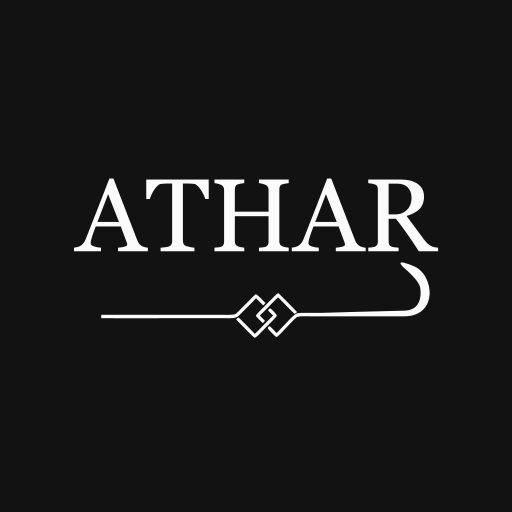
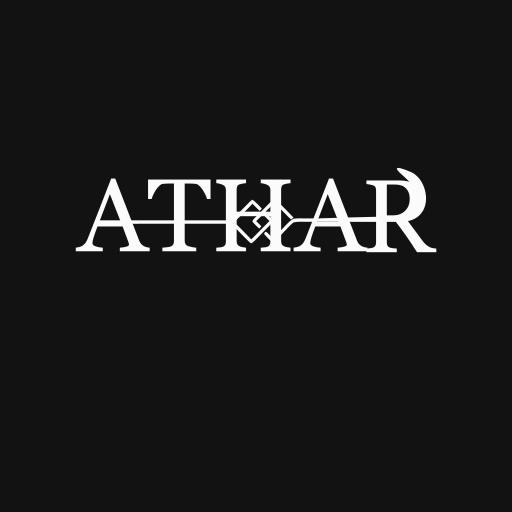
Unify ATHAR login wordmark across the entire platform (v373).
Apply tuned deco line, R alignment, and viewBox to header, transition, and PWA icons.

Changed region(s): [[0.1875, 0.3125, 0.875, 0.6562], [0.1562, 0.4375, 0.1875, 0.5]]

diff --git a/index.html b/index.html
@@ -492,13 +492,12 @@
     }
 
     .wefaq-app-logo--athar {
-      aspect-ratio: 903 / 422;
+      aspect-ratio: 903 / 555;
       max-width: 100%
     }
 
-    .wefaq-app-logo--athar-login {
-      aspect-ratio: 903 / 555;
-      max-width: 100%
+    .wefaq-app-logo--athar .athar-logo-deco path {
+      shape-rendering: geometricPrecision
     }
 
     #loginScreen #loginCard.lp-card .lp-hd--wefaq {
@@ -522,14 +521,10 @@
         margin-top: 0.35rem
       }
 
-      #loginScreen #loginCard .lp-hd--wefaq .wefaq-app-logo--athar-login {
+      #loginScreen #loginCard .lp-hd--wefaq .wefaq-app-logo--athar {
         transform: translateY(10px);
         transform-origin: center top
       }
-    }
-
-    #loginScreen #loginCard .lp-hd--wefaq .wefaq-logo-slot .athar-logo-deco path {
-      shape-rendering: geometricPrecision
     }
 
     #loginScreen #loginCard .lp-hd--wefaq .lp-sub {
@@ -569,12 +564,12 @@
       position: relative
     }
 
-    /* شعار الشريط — ATHAR من Figma */
+    /* شعار الشريط — ATHAR موحّد مع صفحة الدخول */
     .brand-area .brand-icon.wefaq-logo-slot .wefaq-app-logo--athar {
       position: static;
       width: 7.25rem;
       height: auto;
-      aspect-ratio: 903 / 422;
+      aspect-ratio: 903 / 555;
       max-width: none;
       transform: none;
       margin-block-start: 2px
@@ -21333,7 +21328,7 @@
       }
     }
   </style>
-  <meta name="app-build" content="athar-figma-v372-login-deco">
+  <meta name="app-build" content="athar-figma-v373-unified">
   <!-- مقياس zoom على الجوال يُعطّل لتحسين الأداء — التنسيق عبر CSS الجوال -->
 </head>
 
@@ -25315,18 +25310,16 @@
         return typeof window !== 'undefined' && window.matchMedia('(max-width: 992px)').matches;
       }
 
-      const ATHAR_LOGO_VER = '372';
-      const ATHAR_LOGIN_DECO_SHIFT = { x: -8, y: -210 };
+      const ATHAR_LOGO_VER = '373';
+      const ATHAR_DECO_SHIFT = { x: -8, y: -210 };
+      const ATHAR_LOGO_VIEWBOX = '-31 75 903 555';
 
-      /** شعار ATHAR — Figma v371 */
-      function atharWordmarkLogoHtml(variant) {
-        const isLogin = variant === 'login';
-        const viewBox = isLogin ? '-31 75 903 555' : '-31 250 903 422';
-        const extraClass = isLogin ? ' wefaq-app-logo--athar-login' : '';
-        const dx = isLogin ? ATHAR_LOGIN_DECO_SHIFT.x : 0;
-        const dy = isLogin ? ATHAR_LOGIN_DECO_SHIFT.y : 0;
-        const decoTag = isLogin ? ` data-deco-shift="${ATHAR_LOGIN_DECO_SHIFT.x},${ATHAR_LOGIN_DECO_SHIFT.y}"` : '';
-        return `<svg xmlns="http://www.w3.org/2000/svg" viewBox="${viewBox}" overflow="visible" preserveAspectRatio="xMidYMid meet" role="img" aria-label="ATHAR" class="wefaq-app-logo wefaq-app-logo--athar${extraClass}" data-athar-ver="${ATHAR_LOGO_VER}"${decoTag} aria-hidden="true">
+      /** شعار ATHAR الموحّد — نفس صفحة الدخول في كل المنصة */
+      function atharWordmarkLogoHtml() {
+        const dx = ATHAR_DECO_SHIFT.x;
+        const dy = ATHAR_DECO_SHIFT.y;
+        const decoTag = ` data-deco-shift="${dx},${dy}"`;
+        return `<svg xmlns="http://www.w3.org/2000/svg" viewBox="${ATHAR_LOGO_VIEWBOX}" overflow="visible" preserveAspectRatio="xMidYMid meet" role="img" aria-label="ATHAR" class="wefaq-app-logo wefaq-app-logo--athar" data-athar-ver="${ATHAR_LOGO_VER}"${decoTag} aria-hidden="true">
           <g fill="currentColor">
             <text x="421" y="250" text-anchor="middle" dominant-baseline="hanging" font-size="230" font-weight="400">
               <tspan font-family="'ZCOOL XiaoWei', Georgia, 'Times New Roman', serif">ATHA</tspan><tspan class="athar-logo-r" dx="-8" dy="2" font-family="'Petrona', Georgia, 'Times New Roman', serif">R</tspan>
@@ -25342,30 +25335,25 @@
       }
 
       const ATHAR_LOGO_HOSTS = [
-        { sel: '#loginScreen #loginCard .wefaq-logo-slot', variant: 'login' },
-        { sel: '#loginTransition .wefaq-logo-slot', variant: 'default' },
-        { sel: '#brandArea .brand-icon.wefaq-logo-slot', variant: 'default' }
+        '#loginScreen #loginCard .wefaq-logo-slot',
+        '#loginTransition .wefaq-logo-slot',
+        '#brandArea .brand-icon.wefaq-logo-slot'
       ];
 
       function syncAtharBranding() {
-        ATHAR_LOGO_HOSTS.forEach(({ sel, variant }) => {
+        const decoShift = `${ATHAR_DECO_SHIFT.x},${ATHAR_DECO_SHIFT.y}`;
+        ATHAR_LOGO_HOSTS.forEach((sel) => {
           const host = document.querySelector(sel);
           if (!host) return;
-          const wantLogin = variant === 'login';
           const existing = host.querySelector(':scope > .wefaq-app-logo--athar');
-          const decoShift = `${ATHAR_LOGIN_DECO_SHIFT.x},${ATHAR_LOGIN_DECO_SHIFT.y}`;
-          if (!wantLogin && existing?.dataset.atharVer === ATHAR_LOGO_VER &&
-            existing.classList.contains('wefaq-app-logo--athar-login') === wantLogin) {
-            return;
-          }
-          if (wantLogin && existing?.dataset.atharVer === ATHAR_LOGO_VER &&
+          if (existing?.dataset.atharVer === ATHAR_LOGO_VER &&
             existing.dataset.decoShift === decoShift) {
             return;
           }
           host.classList.add('wefaq-logo-host');
           host.querySelector(':scope > .brand-mono')?.remove();
           host.querySelectorAll(':scope > .wefaq-app-logo, :scope > img').forEach((el) => el.remove());
-          host.insertAdjacentHTML('beforeend', atharWordmarkLogoHtml(variant));
+          host.insertAdjacentHTML('beforeend', atharWordmarkLogoHtml());
         });
       }
 
